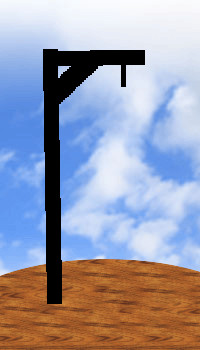
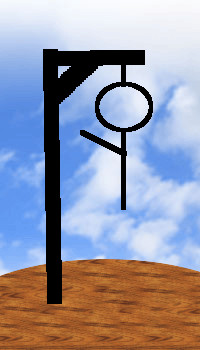
Adds basic game functionality

Changed region(s): [[0.39, 0.2286, 0.78, 0.6]]

diff --git a/script.js b/script.js
@@ -1,6 +1,12 @@
 // VOCABULARY WORDS GO HERE
 const wordList = ['balcony', 'bathroom', 'bedroom', 'dining room', 'garage', 'garden', 'hall', 'kitchen', 'living room', 'stairs', 'armchair', 'bath', 'blankets', 'chest of drawers', 'cooker', 'cupboards', 'cushions', 'dishwasher', 'duvet', 'fridge', 'microwave', 'mirror', 'pillow', 'rug', 'sink', 'sofa', 'taps', 'toilet', 'towels', 'wardrobe', 'washing machine'];
 
+// Variables
+let wordDisplay = document.querySelector('.word');
+let guesses = [];
+let incorrectGuesses = 0;
+const hangmanImage = document.getElementById('hangman');
+
 // Function to get random word
 let currentWord = '';
 if (!currentWord) {
@@ -12,7 +18,75 @@ function getRandomWord() {
         randomIndex = Number.parseInt(Math.random() * wordList.length);
     }
     currentWord = wordList[randomIndex];
+    updateWordDisplay();
 }
+
+// Function to Update Word Display
+function updateWordDisplay() {
+    wordDisplay.style.color = 'black';
+    wordDisplay.textContent = '';
+    for (let i = 0; i < currentWord.length; i++) {
+        if (guesses.includes(currentWord[i].toUpperCase())) {
+            wordDisplay.textContent += currentWord[i].toUpperCase();
+        } else if (currentWord[i] === ' ') {
+            wordDisplay.textContent += ' ';
+        } else {
+            wordDisplay.textContent += '_';
+        }
+    }
+    if (!wordDisplay.textContent.includes('_')) {
+        winner();
+    }
+}
+
+// Function to Compare Guesses to Current Word
+function checkGuess(letter) {
+    guesses.push(letter);
+    if (currentWord.toUpperCase().includes(letter)) {
+        updateWordDisplay();
+    } else {
+        incorrectGuesses += 1;
+        hangmanImage.setAttribute('src', `images/${incorrectGuesses}.jpg`);
+    }
+    if (incorrectGuesses === 7) {
+        gameOver();
+    }
+}
+
+// You Win!
+function winner() {
+    wordDisplay.style.color = 'green';
+    const buttons = document.querySelectorAll('.button-grid button');
+    buttons.forEach( (button) => {
+        if (button.textContent !== 'Restart') {
+            button.disabled = true;
+        }
+    });
+}
+
+// Game Over
+function gameOver() {
+    wordDisplay.style.color = 'red';
+    wordDisplay.textContent = currentWord.toUpperCase();
+    const buttons = document.querySelectorAll('.button-grid button');
+    buttons.forEach( (button) => {
+        if (button.textContent !== 'Restart') {
+            button.disabled = true;
+        }
+    });
+}
+
+// Restart
+function restartGame() {
+    incorrectGuesses = 0;
+    guesses = [];
+    getRandomWord();
+    hangmanImage.setAttribute('src', `images/${incorrectGuesses}.jpg`);
+    const buttons = document.querySelectorAll('.button-grid button');
+    buttons.forEach( (button) => button.disabled = false );
+}
+
+
 
 // Create and Place Letter Buttons
 const buttonGrid = document.querySelector('.button-grid');
@@ -23,6 +97,10 @@ for (let i = 0; i < 26; i++) {
     button.textContent = letter;
     button.setAttribute('id', `button-${letter}`);
     buttonGrid.appendChild(button);
+    button.addEventListener('click', () => {
+        checkGuess(button.value);
+        button.disabled = true;
+    });
 }
 const restart = document.createElement('button');
 restart.value = 'restart';
@@ -31,3 +109,5 @@ restart.setAttribute('id', 'button-restart');
 buttonGrid.appendChild(restart);
 restart.style.gridArea = '6 / 2 / 7 / 6';
 restart.style.width = '60vw';
+
+restart.addEventListener('click', () => restartGame())

diff --git a/index.html b/index.html
@@ -18,7 +18,7 @@
     </div>
 
     <div class="picture-area">
-        <img src="images/0.jpg" alt="hangman">
+        <img src="images/0.jpg" alt="hangman" id="hangman">
     </div>
 
     <div class="button-grid-area">

diff --git a/style.css b/style.css
@@ -23,6 +23,7 @@ header,
 .word-area {
     letter-spacing: 10px;
     font-size: 24px;
+    font-weight: bold;
 }
 
 .picture-area,
